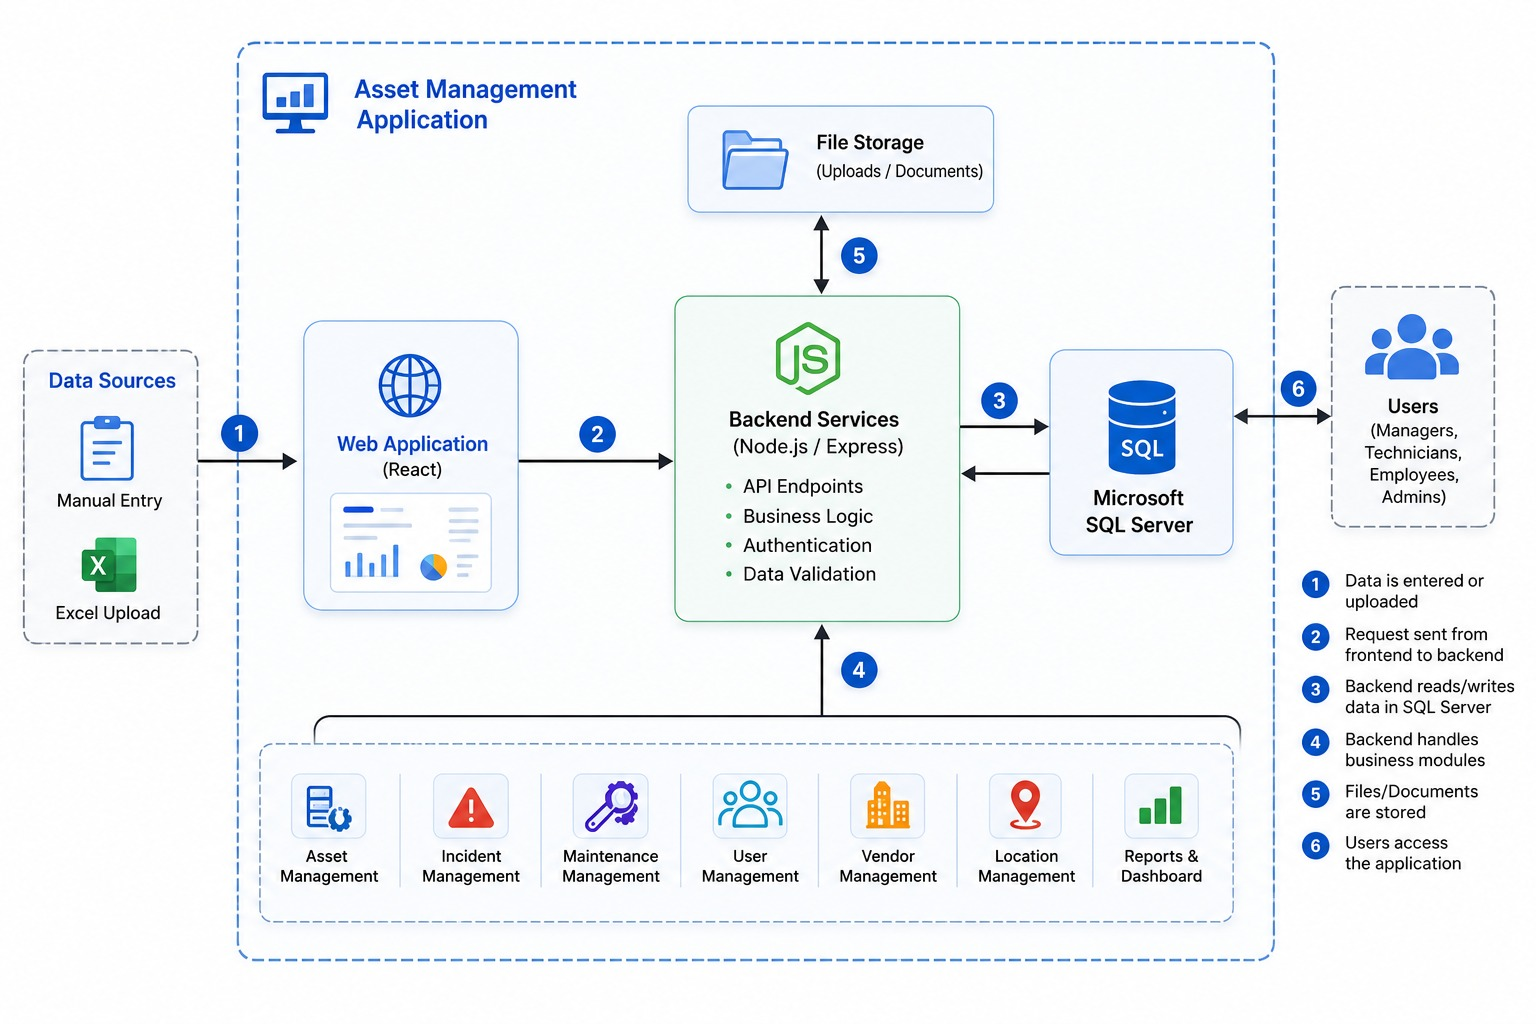
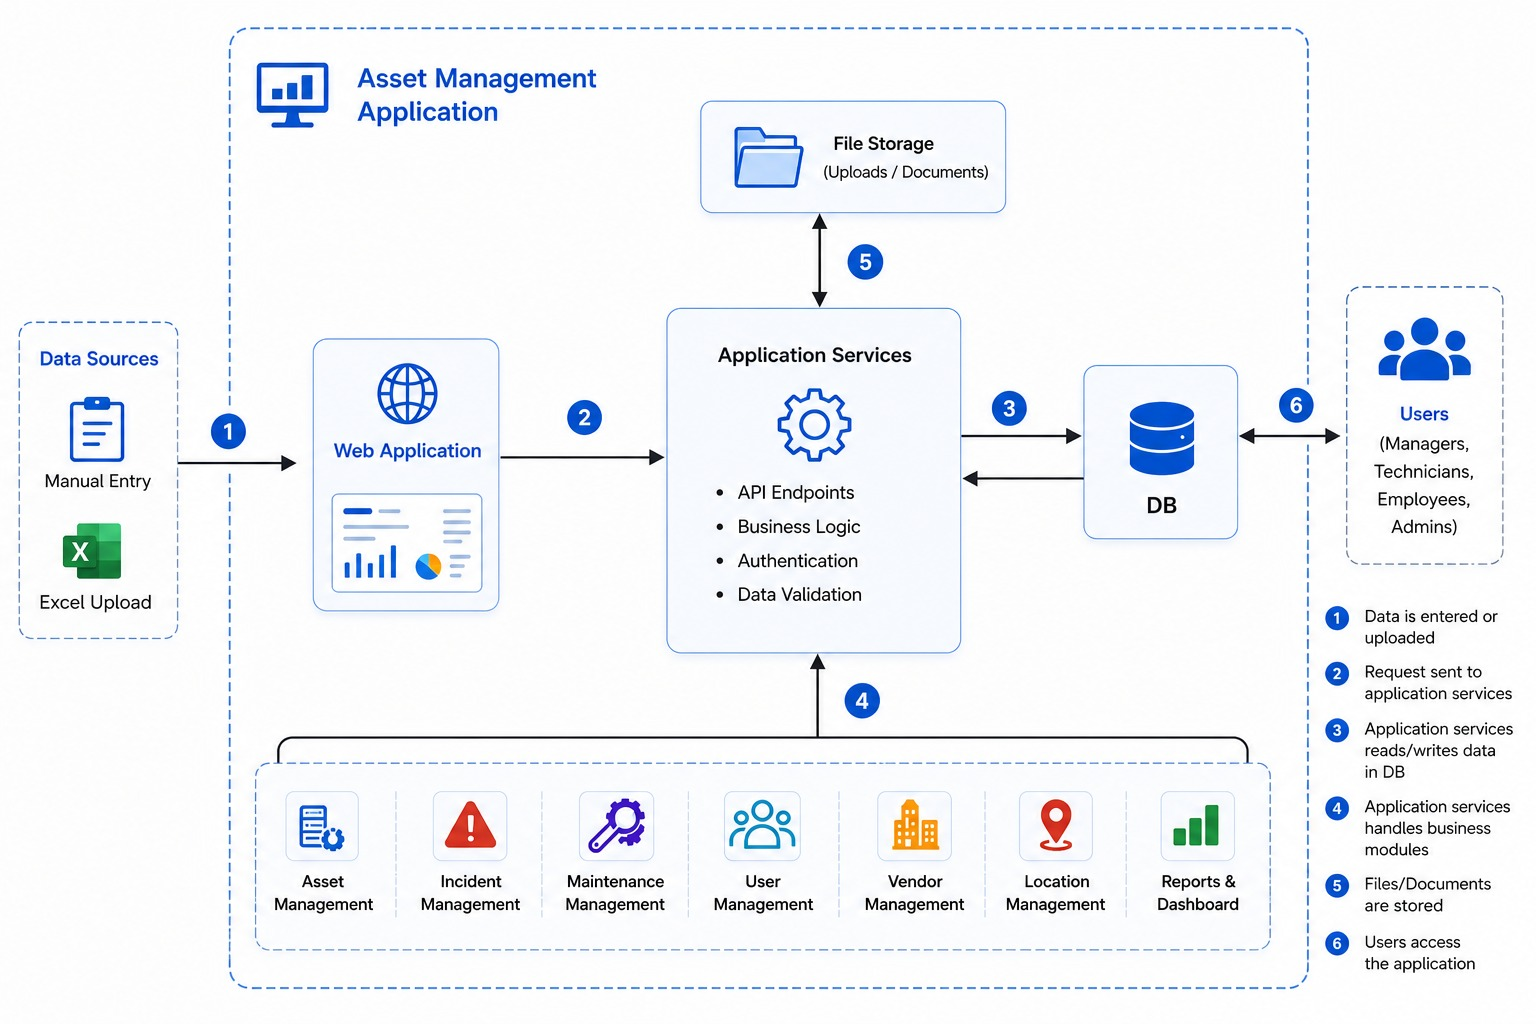
Changes done

diff --git a/src/App.jsx b/src/App.jsx
@@ -1147,9 +1147,9 @@ function ProductDetailsPage({ product }) {
             </div>
           </section>
         </div>
-        <div className="col-md-6">
+        <div className="col-md-5  ms-5 " style={{marginTop:"70px"}}>
           {/* <p>hhj</p> */}
-          <img src={currentProduct.Flowimg} className="img-fluid"/>
+          <img src={currentProduct.Flowimg} className="img-fluid h-75" style={{width:"900px"}}/>
         </div>
         {/* <div className="col-md-6">
           <img src="../src/images/asset-dashboard.jpg" style={{width:"400px",height:"400px"}}/>